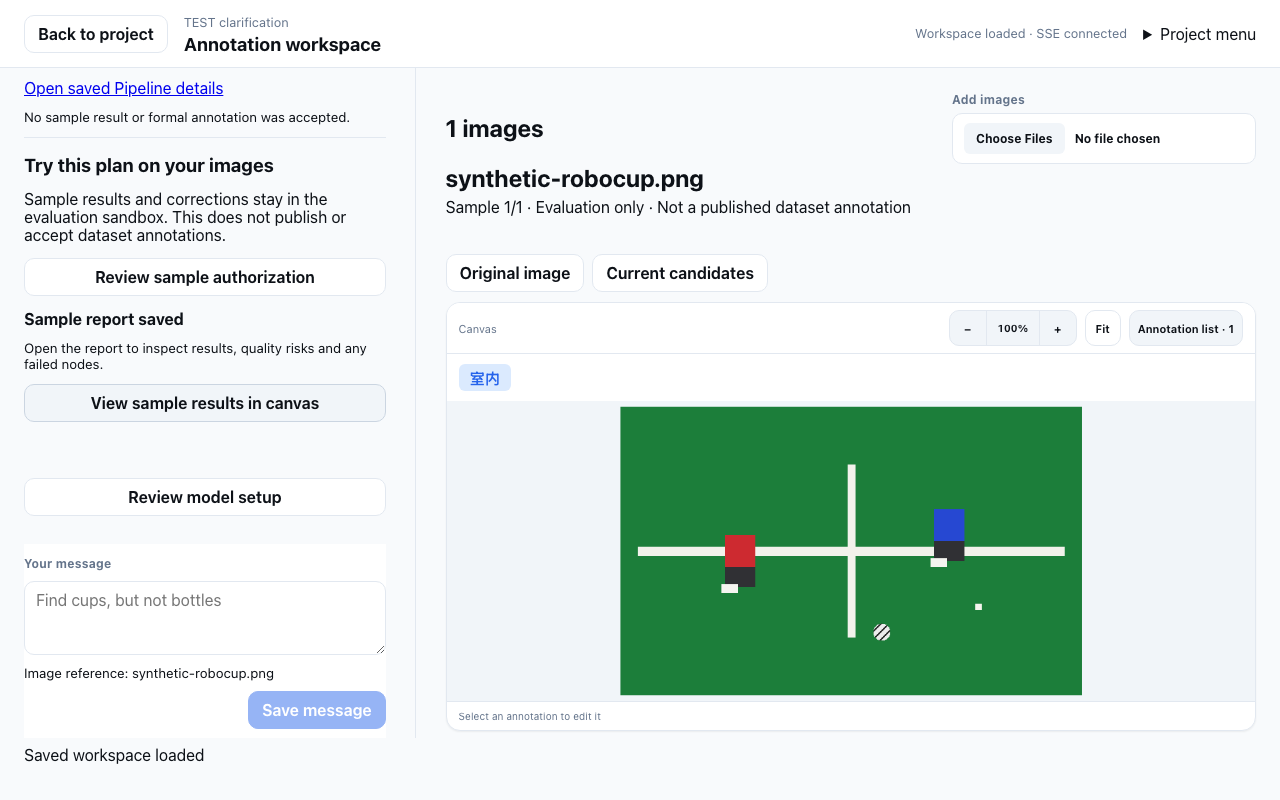
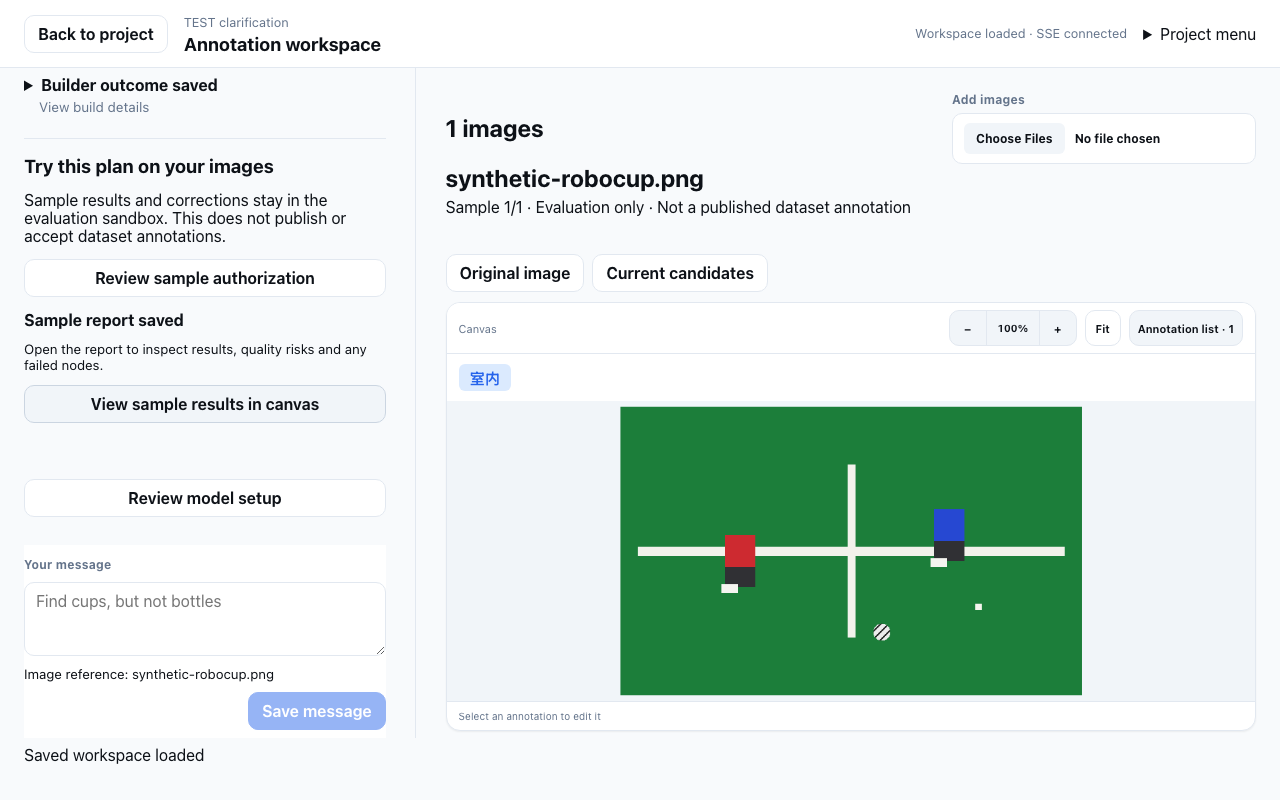
refactor(workspace): fold completed planning details without hiding active tasks

diff --git a/web/src/components/ConversationBuilderCard.tsx b/web/src/components/ConversationBuilderCard.tsx
@@ -85,7 +85,8 @@ export function ConversationBuilderCard({ project, conversation, task, schema, e
   const session=item?.session;
   const draftId=item?.operation.evidence?.draft_id ?? session?.working_draft?.draft_id;
   const builtRevision=preview?.selection.schema_revision ?? item?.schema_revision ?? item?.operation.evidence?.schema_revision;
-  return <section className="conversation-builder-card" aria-label={repairRequest ? "Repair annotation pipeline" : "Build annotation pipeline"}>
+  const completed=Boolean(draftId && builtRevision===schema.revision && !editing && !running && !preview && !error && !cancelled && !session?.unresolved_bindings?.length && !item?.operation.evidence?.error && item?.operation.status==="completed" && session?.outcome==="draft_ready_for_human_review");
+  const buildDetails=<>
     <h3>{repairRequest ? "Revise the plan from your correction" : "Build the annotation plan"}</h3>
     {repairRequest && <p>Your saved correction is evidence for revising this plan, not proof of improved accuracy. The original plan remains unchanged.</p>}
     <p>{builtRevision ? `This operation uses Schema revision ${builtRevision}.` : `A new build will use saved labels at revision ${schema.revision}.`} This step builds a Draft; it does not test images or publish.</p>
@@ -95,8 +96,11 @@ export function ConversationBuilderCard({ project, conversation, task, schema, e
     {running && <><p role="status">{session?.phase ? `Builder stage: ${session.phase.replaceAll("_"," ")}` : "Submitting or restoring the saved Builder operation…"}</p>{session?.next_action && <p>{session.next_action}</p>}<button onClick={()=>void stop()}>Stop Builder</button><small>Leaving this page does not stop the server task. No images are being tested.</small></>}
     {cancelled && <p role="status">{running ? "Cancellation saved. Waiting for the server to settle any in-flight call; its cost may be unknown." : "Cancellation saved. The operation has stopped; any prior call cost remains recorded separately."}</p>}
     {uncertain && !busy && <button onClick={()=>void launch()} disabled={cancelled}>Retry the same Builder request</button>}
-    {item && item.operation.status!=="reserved" && <div className="conversation-builder-result"><strong>{item.operation.status==="interrupted" ? "Build interrupted" : "Builder outcome saved"}</strong><p>{session?.outcome?.replaceAll("_"," ") ?? item.operation.evidence?.outcome?.replaceAll("_"," ") ?? item.operation.status}</p>{item.operation.evidence?.error && <p>{item.operation.evidence.error}</p>}{session?.next_action && <p>{session.next_action}</p>}{session?.unresolved_bindings?.length ? <ul>{session.unresolved_bindings.map((binding,index)=><li key={index}>{binding}</li>)}</ul> : null}{draftId && <a href={projectBuildPath(project,"pipeline",{draftId,agentSessionId:session?.id})}>Open saved Pipeline details</a>}<small>No sample result or formal annotation was accepted.</small></div>}
+    {item && item.operation.status!=="reserved" && <div className="conversation-builder-result"><strong>{item.operation.status==="interrupted" ? "Build interrupted" : completed ? "Saved execution record" : "Builder outcome saved"}</strong><p>{session?.outcome?.replaceAll("_"," ") ?? item.operation.evidence?.outcome?.replaceAll("_"," ") ?? item.operation.status}</p>{item.operation.evidence?.error && <p>{item.operation.evidence.error}</p>}{session?.next_action && <p>{session.next_action}</p>}{session?.unresolved_bindings?.length ? <ul>{session.unresolved_bindings.map((binding,index)=><li key={index}>{binding}</li>)}</ul> : null}{draftId && <a href={projectBuildPath(project,"pipeline",{draftId,agentSessionId:session?.id})}>Open saved Pipeline details</a>}<small>No sample result or formal annotation was accepted.</small></div>}
     {error && <p role="alert">{error} Saved operations remain on the server; refreshing will not start another build.</p>}
+  </>;
+  return <section className="conversation-builder-card" aria-label={repairRequest ? "Repair annotation pipeline" : "Build annotation pipeline"}>
+    {completed ? <details className="conversation-completed-stage"><summary><strong>Builder outcome saved</strong><span>View build details</span></summary><div>{buildDetails}</div></details> : buildDetails}
     {draftId && !running && <ConversationSampleCard key={`${task}:${draftId}`} project={project} conversation={conversation} task={task} draft={draftId} disabled={editing || busy} onOpen={onSample} onAssistance={onAssistance} />}
   </section>;
 }

diff --git a/web/e2e/conversation-clarification.spec.ts b/web/e2e/conversation-clarification.spec.ts
@@ -67,6 +67,14 @@ test("Schema clarification saves without inference then continues to authorized 
   await expect(page.getByRole("button",{name:"Review sample authorization",exact:true})).toBeEnabled();
   await page.reload();
   await expect(page.getByText("Builder outcome saved",{exact:true})).toBeVisible();
+  const savedPlan=page.locator(".conversation-completed-stage");
+  await expect(savedPlan).not.toHaveAttribute("open","");
+  await expect(page.getByRole("button",{name:"Review another build request",exact:true})).toBeHidden();
+  await savedPlan.locator("summary").focus();
+  await page.keyboard.press("Enter");
+  await expect(page.getByRole("link",{name:"Open saved Pipeline details",exact:true})).toBeVisible();
+  await page.keyboard.press("Enter");
+  await expect(page.getByRole("button",{name:"Review sample authorization",exact:true})).toBeVisible();
   const answered=page.getByLabel("Saved clarification answer",{exact:true});
   await expect(answered).toContainText("Clarification answered");
   await answered.getByText("Why AnnotAgent asked",{exact:true}).click();
@@ -95,4 +103,10 @@ test("Schema clarification saves without inference then continues to authorized 
   expect(await (await request.get(root)).json()).toHaveLength(1);
   expect(writes).toBe(0);
   await page.screenshot({path:"../docs/execution/conversational-workspace/clarification-sample-result.png",fullPage:true,animations:"disabled"});
+  await page.getByRole("button",{name:"Edit labels and boundary rules",exact:true}).click();
+  await page.getByLabel("Labels · one per line",{exact:true}).fill("室内\n室外\n不确定");
+  await page.getByRole("button",{name:"Save Schema changes",exact:true}).click();
+  await expect(page.getByText("Labels are now revision 2; this saved operation has not been rebuilt for those changes.",{exact:true})).toBeVisible();
+  await expect(page.locator(".conversation-completed-stage")).toHaveCount(0);
+  expect(await (await request.get(`${taskRoot}/budget`)).json()).toEqual(after);
 });

diff --git a/web/e2e/conversation-schema.spec.ts b/web/e2e/conversation-schema.spec.ts
@@ -160,6 +160,8 @@ test("authorized conversation Schema crosses actual HTTP Provider transport once
   },{times:1});
   await page.getByRole("button",{name:"Build Pipeline Draft",exact:true}).click();
   await expect(page.getByText("Builder outcome saved",{exact:true})).toBeVisible();
+  const completedPlan=page.locator(".conversation-completed-stage > summary");
+  if(await completedPlan.isVisible())await completedPlan.click();
   await expect(page.getByRole("link",{name:"Open saved Pipeline details",exact:true})).toHaveAttribute("href",new RegExp(`/projects/${uiProject}/build/pipeline\\?`));
   reloadWrites=0;
   await page.reload();
@@ -172,6 +174,8 @@ test("authorized conversation Schema crosses actual HTTP Provider transport once
     await page.screenshot({path:`../docs/execution/conversational-workspace/schema-${width}.png`,fullPage:true,animations:"disabled"});
   }
   const cancelProject = `${uiProject}-cancel`;
+  const savedStage=page.locator(".conversation-completed-stage > summary");
+  if(await savedStage.isVisible())await savedStage.click();
   await page.getByRole("button",{name:"Review another build request",exact:true}).click();
   await page.getByRole("checkbox",{name:"Allow this bounded Builder request; actual cost is unknown",exact:true}).check();
   let releaseBuilder!:()=>void;

diff --git a/web/src/components/conversation-workspace.css b/web/src/components/conversation-workspace.css
@@ -43,6 +43,11 @@
 .conversation-builder-card, .conversation-builder-result { display: grid; gap: 12px; min-width: 0; overflow-wrap: anywhere; }
 .conversation-builder-card { padding-block: 16px; border-block-start: 1px solid var(--aa-border); }
 .conversation-builder-card a { white-space: normal; overflow-wrap: anywhere; }
+.conversation-completed-stage { min-width: 0; }
+.conversation-completed-stage > summary { cursor: pointer; padding-block: 8px; line-height: 1.5; overflow-wrap: anywhere; }
+.conversation-completed-stage > summary span { display: block; margin-inline-start: 1.1em; font-size: .85rem; color: var(--aa-text-muted); }
+.conversation-completed-stage > div { display: grid; gap: 12px; padding-block: 12px; min-width: 0; }
+.conversation-completed-stage > summary:focus-visible { outline: 2px solid var(--aa-primary); outline-offset: 3px; border-radius: 4px; }
 .conversation-sample-card, .conversation-sample-canvas { display: grid; gap: 14px; min-width: 0; overflow-wrap: anywhere; }
 .conversation-sample-card { padding-block: 16px; border-block-start: 1px solid var(--aa-border); }
 .conversation-sample-canvas header { display: grid; gap: 6px; }

diff --git a/web/e2e/conversation-samples.spec.ts b/web/e2e/conversation-samples.spec.ts
@@ -301,6 +301,8 @@ test(`conversation ${scenario} authorizes HTTP fixture samples and restores edit
   await page.reload();
   await expect(repairCard.getByText("Builder outcome saved",{exact:true})).toBeVisible();
   expect(await (await request.get(`${taskRoot}/calls`)).json()).toEqual(repairCalls);
+  const savedRepair=repairCard.locator(".conversation-completed-stage > summary");
+  if(await savedRepair.isVisible())await savedRepair.click();
   await repairCard.getByRole("heading",{name:"Revise the plan from your correction",exact:true}).evaluate(element=>element.scrollIntoView({block:"start"}));
   await page.screenshot({path:`../docs/execution/conversational-workspace/repair-${kind}.png`,fullPage:true});
   await repairCard.getByRole("button",{name:"Review sample authorization",exact:true}).click();

diff --git a/docs/execution/CONVERSATIONAL_WORKSPACE_STATUS.md b/docs/execution/CONVERSATIONAL_WORKSPACE_STATUS.md
@@ -1936,3 +1936,36 @@ assertion: the new compatible TEST profile was not included in the suite's exist
 retirement prefix. Fixed the isolated fixture profile naming and prior-scenario retirement,
 without altering production model selection. Re-run `/tmp/annotagent-guided-e2e-18775` passed
 2/2 (17.6 seconds), including the existing human-classification full delivery regression.
+
+### M3/M4 continuation — fold completed planning history, not active controls
+
+The default conversation previously continued to show Builder introduction, used revision,
+rebuild request, outcome explanation and advanced Pipeline link alongside the current sample
+task. These completed planning controls now live under one native, keyboard-operable “Builder
+outcome saved / View build details” disclosure. It reuses the same component state, API and
+advanced link; no second execution path or management page was created. Sample authorization,
+results, assistance failures and active stop controls remain outside this disclosure.
+
+Folding is conditional on a completed operation with a real Draft, `draft_ready_for_human_review`,
+no unresolved bindings/errors/cancellation, no active request or editor, and exact current Schema
+revision. Blocked/failed/interrupted/unknown results remain exposed. Editing labels to a newer
+revision restores the visible stale-plan warning rather than hiding it in saved history. The
+disclosure does not imply model quality, publication, annotation acceptance or new consent.
+
+Validation: Web typecheck and 119 units passed. Initial isolated combined clarification plus
+human-classification delivery passed 2/2 in `/tmp/annotagent-guided-e2e-19039` (17.6 seconds).
+Added explicit keyboard Enter open/close, advanced link visibility, directly visible next sample
+operation and label-revision-change uncollapse checks. The final Schema cancellation/transport
+regression is recorded below when finished. Inspected `clarification-sample-result.png`: the
+saved-plan controls are folded while the terminal canvas and sample actions remain visible.
+This reduces one historical interaction region, not a claim that the entire default journey or
+all long cards have been simplified. Continuous orchestration and other open requirements remain.
+Only isolated HTTP TEST transport and synthetic data; no Live or human-usability validation,
+real Workspace writes, old credential use, push or remote modification.
+Final `/tmp/annotagent-guided-e2e-19253` passed 2/2 (11.2 seconds): clarification/sample
+continuation including stale-revision exposure, plus original Schema response-loss, restoration,
+advanced-link and cancellation tests. The preceding run caught a test expecting the advanced
+link to be exposed without opening the new disclosure; the test now opens the real details
+control before verifying its href. The link itself and route were not removed or substituted.
+Current typecheck and diff hygiene passed. Production build passed via the harness, retaining
+the known large-chunk warning. No new Rust changes or claim of a new full Rust regression.
